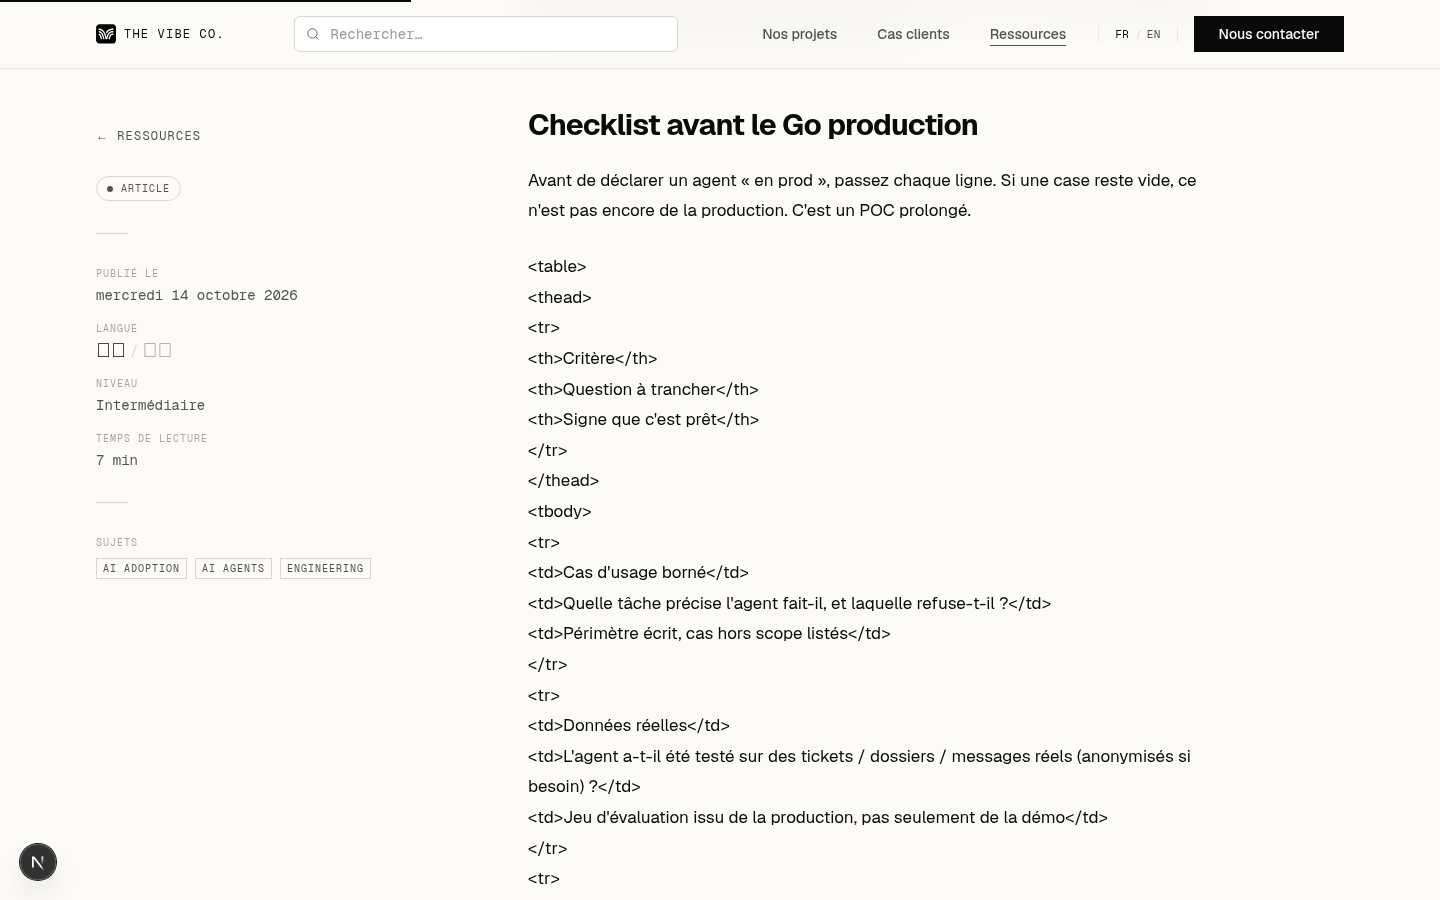
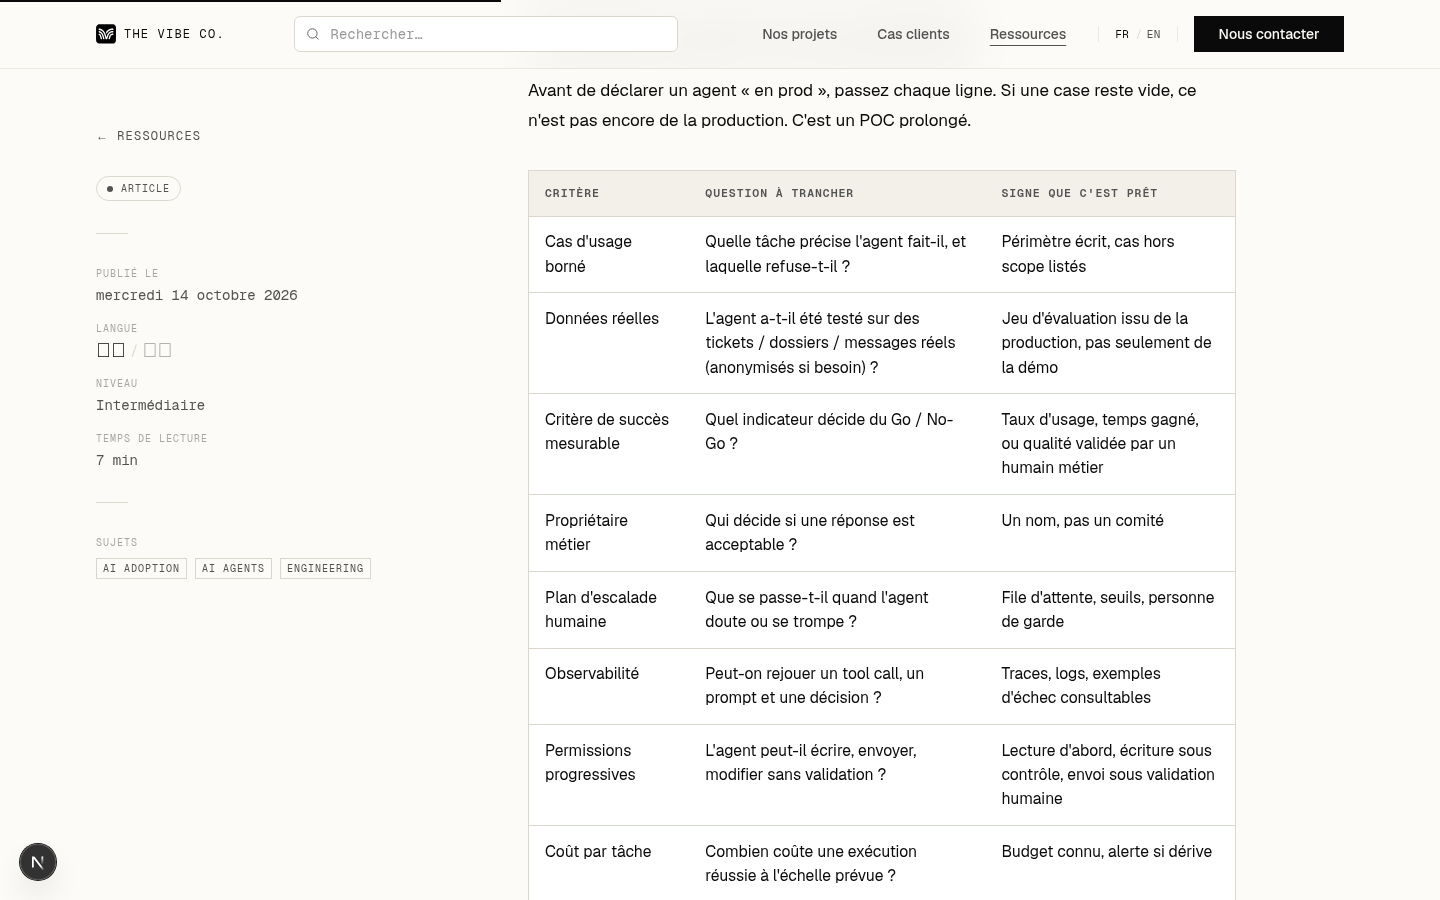
fix(content): render POC-to-production checklist as GFM tables
The markdown renderer escapes raw HTML, so the <table> blocks showed as
literal tags. Convert both FR and EN checklists to pipe tables with the
same 9 criteria and 3 columns.

diff --git a/content/articles/ai-agent-poc-to-production.md b/content/articles/ai-agent-poc-to-production.md
@@ -36,62 +36,17 @@ Many generic checklists stop at “pick a model” and “secure the data.” Fo
 
 Before you label an agent “in prod,” clear every row. If a cell is empty, you still have an extended POC — not production.
 
-<table>
-<thead>
-<tr>
-<th>Criterion</th>
-<th>Decision to make</th>
-<th>Ready when</th>
-</tr>
-</thead>
-<tbody>
-<tr>
-<td>Bounded use case</td>
-<td>Which exact task does the agent do — and which does it refuse?</td>
-<td>Scope written down; out-of-scope cases listed</td>
-</tr>
-<tr>
-<td>Real data</td>
-<td>Has the agent been tested on real tickets / files / messages (anonymized if needed)?</td>
-<td>Eval set drawn from production, not only from the demo</td>
-</tr>
-<tr>
-<td>Measurable success</td>
-<td>Which metric decides Go / No-Go?</td>
-<td>Usage rate, time saved, or quality signed off by a business owner</td>
-</tr>
-<tr>
-<td>Business owner</td>
-<td>Who decides whether an answer is acceptable?</td>
-<td>A named person, not a committee</td>
-</tr>
-<tr>
-<td>Human escalation plan</td>
-<td>What happens when the agent is unsure or wrong?</td>
-<td>Queue, thresholds, on-call owner</td>
-</tr>
-<tr>
-<td>Observability</td>
-<td>Can you replay a tool call, a prompt, and a decision?</td>
-<td>Traces, logs, and failure examples you can inspect</td>
-</tr>
-<tr>
-<td>Progressive permissions</td>
-<td>Can the agent write, send, or change anything without approval?</td>
-<td>Read first; write under control; send only after human validation</td>
-</tr>
-<tr>
-<td>Cost per task</td>
-<td>What does a successful run cost at the expected volume?</td>
-<td>Known budget; alerts if it drifts</td>
-</tr>
-<tr>
-<td>Internal handover</td>
-<td>Can your team evolve the system without us?</td>
-<td>Docs, access, runbook, and training delivered</td>
-</tr>
-</tbody>
-</table>
+| Criterion | Decision to make | Ready when |
+| --- | --- | --- |
+| Bounded use case | Which exact task does the agent do — and which does it refuse? | Scope written down; out-of-scope cases listed |
+| Real data | Has the agent been tested on real tickets / files / messages (anonymized if needed)? | Eval set drawn from production, not only from the demo |
+| Measurable success | Which metric decides Go / No-Go? | Usage rate, time saved, or quality signed off by a business owner |
+| Business owner | Who decides whether an answer is acceptable? | A named person, not a committee |
+| Human escalation plan | What happens when the agent is unsure or wrong? | Queue, thresholds, on-call owner |
+| Observability | Can you replay a tool call, a prompt, and a decision? | Traces, logs, and failure examples you can inspect |
+| Progressive permissions | Can the agent write, send, or change anything without approval? | Read first; write under control; send only after human validation |
+| Cost per task | What does a successful run cost at the expected volume? | Known budget; alerts if it drifts |
+| Internal handover | Can your team evolve the system without us? | Docs, access, runbook, and training delivered |
 
 Three principles show up on every serious project.
 
